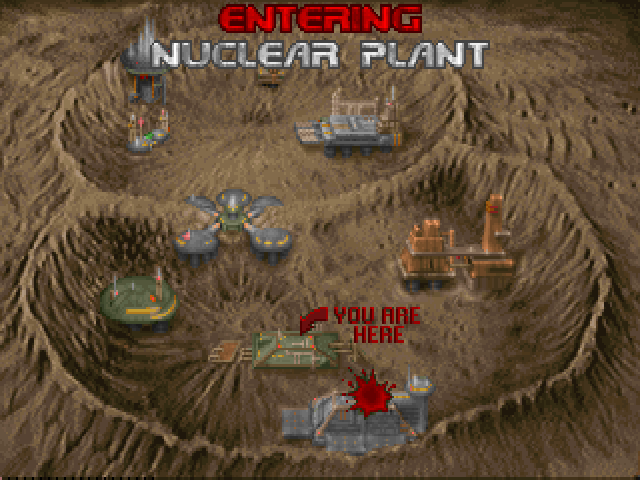
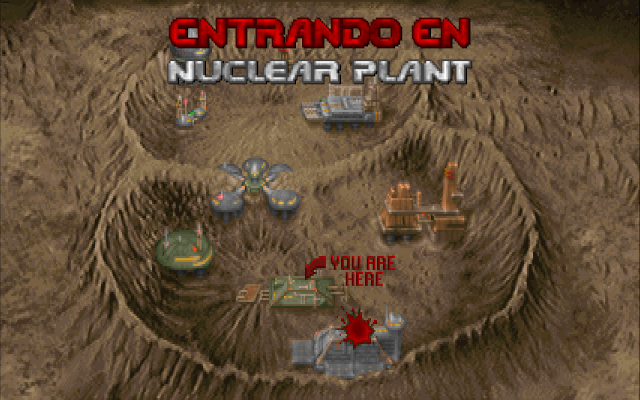
Cosas de intermissions, solo falta smelt y mejores cargas

diff --git a/DOOM/PauseMenu/PauseMenu.cpp b/DOOM/PauseMenu/PauseMenu.cpp
@@ -46,7 +46,13 @@ PauseMenu::PauseMenu(sf::RenderWindow* m_pRenderWindow) : m_pRenderWindow(m_pRen
         std::cout << "Error on load fondo hangar texture (Pausemenu.cpp)" << std::endl;
     }
     interNuclearSprite.setTexture(interNuclearTexture);
-    interNuclearSprite.scale(0.5f, 0.4166f);        //Regla de tres, 620x480 pasado a 320x200
+    interNuclearSprite.scale(0.5f, 0.5f);
+
+    if (!interToxicTexture.loadFromFile("../../../../assets/LoadingScreens/IntermissionNuclearPlant.png")) {
+        std::cout << "Error on load fondo hangar texture (Pausemenu.cpp)" << std::endl;
+    }
+    interToxicSprite.setTexture(interToxicTexture);
+    interToxicSprite.scale(0.5f, 0.5f);
 
 
 
@@ -58,6 +64,20 @@ PauseMenu::PauseMenu(sf::RenderWindow* m_pRenderWindow) : m_pRenderWindow(m_pRen
     HangarSprite.setTexture(Hangar);
     HangarSprite.scale(0.35f, 0.35f);
     HangarSprite.setPosition(SCREENWIDTH / 2 - Hangar.getSize().x * HangarSprite.getScale().x / 2, 8);
+
+    if (!Nuclear.loadFromFile("../../../../assets/LoadingScreens/Nuclear.png")) {
+        std::cout << "Error on load fondo Nuclear texture (Pausemenu.cpp)" << std::endl;
+    }
+    NuclearSprite.setTexture(Nuclear);
+    NuclearSprite.scale(0.35f, 0.35f);
+    NuclearSprite.setPosition(SCREENWIDTH / 2 - Nuclear.getSize().x * NuclearSprite.getScale().x / 2, 8);
+
+    if (!Toxic.loadFromFile("../../../../assets/LoadingScreens/Toxic.png")) {
+        std::cout << "Error on load fondo Toxic texture (Pausemenu.cpp)" << std::endl;
+    }
+    ToxicSprite.setTexture(Toxic);
+    ToxicSprite.scale(0.35f, 0.35f);
+    ToxicSprite.setPosition(SCREENWIDTH / 2 - Toxic.getSize().x * ToxicSprite.getScale().x / 2, 8);
 
     if (!finalizado.loadFromFile("../../../../assets/LoadingScreens/Finalizado.png")) {
         std::cout << "Error on load fondo hangar texture (Pausemenu.cpp)" << std::endl;
@@ -72,7 +92,6 @@ PauseMenu::PauseMenu(sf::RenderWindow* m_pRenderWindow) : m_pRenderWindow(m_pRen
     bajasSprite.setTexture(bajas);
     bajasSprite.scale(0.35f, 0.35f);
     bajasSprite.setPosition(SCREENWIDTH / 10 , finalizadoSprite.getPosition().y + finalizado.getSize().y * finalizadoSprite.getScale().y + 20);
-    std::cout << bajasSprite.getPosition().x << " " << bajasSprite.getPosition().y << std::endl;
 
     if (!porcentaje.loadFromFile("../../../../assets/LoadingScreens/porciento.png")) {
         std::cout << "Error on load % (Pausemenu.cpp)" << std::endl;
@@ -80,7 +99,14 @@ PauseMenu::PauseMenu(sf::RenderWindow* m_pRenderWindow) : m_pRenderWindow(m_pRen
     porcentajeSprite.setTexture(porcentaje);
     porcentajeSprite.scale(0.35f, 0.35f);
     porcentajeSprite.setPosition(SCREENWIDTH - SCREENWIDTH / 10, bajasSprite.getPosition().y);
-    std::cout << bajasSprite.getPosition().x << " " << bajasSprite.getPosition().y << std::endl;
+
+    if (!enhorabuena.loadFromFile("../../../../assets/LoadingScreens/Enhorabuena.png")) {
+        std::cout << "Error on load % (Pausemenu.cpp)" << std::endl;
+    }
+    enhorabuenaSprite.setTexture(enhorabuena);
+    enhorabuenaSprite.scale(0.35f, 0.35f);
+    enhorabuenaSprite.setPosition(SCREENWIDTH/2 - enhorabuena.getSize().x * enhorabuenaSprite.getScale().x/2, 20);
+
 
     if (!cargaCompletaTexture.loadFromFile("../../../../assets/LoadingScreens/CargaCompleta.png")) {
         std::cout << "Error on load fondo cargaCompleta (Pausemenu.cpp)" << std::endl;
@@ -108,6 +134,20 @@ PauseMenu::PauseMenu(sf::RenderWindow* m_pRenderWindow) : m_pRenderWindow(m_pRen
     for (int i = 0; i < 10; i++) {
         numerosSprite[i].scale(0.35f, 0.35f);
     }
+
+    if (!endTextTexture.loadFromFile("../../../../assets/LoadingScreens/EndScreen.png")) {
+        std::cout << "Error on load fondo Toxic texture (Pausemenu.cpp)" << std::endl;
+    }
+    endTextSprite.setTexture(endTextTexture);
+    endTextSprite.scale(0.3f, 0.3f);
+    endTextSprite.setPosition( SCREENWIDTH/2 - endTextTexture.getSize().x* endTextSprite.getScale().x/2, 70 );
+
+
+    if (!endBackgroundTexture.loadFromFile("../../../../assets/LoadingScreens/EndBackground.jpg")) {
+        std::cout << "Error on load fondo Toxic texture (Pausemenu.cpp)" << std::endl;
+    }
+    endBackgroundSprite.setTexture(endBackgroundTexture);
+    endBackgroundSprite.scale(0.4f, 0.4f);
 }
 
 PauseMenu::~PauseMenu()
@@ -189,4 +229,101 @@ void PauseMenu::RenderCarga1(int porcentaje) {
 }
 
 void PauseMenu::RenderCarga2(int porcentaje) {
+
+    sf::Event event;
+    bool skipIntro = false;
+    while (m_pRenderWindow->pollEvent(event) || !skipIntro) {
+        switch (event.type) {
+        case sf::Event::KeyPressed:
+            if (event.key.code == sf::Keyboard::Enter)
+            {
+                skipIntro = true;
+            }
+            break;
+
+        case sf::Event::Closed:
+            m_pRenderWindow->close();
+            break;
+
+        default:
+            break;
+
+        }
+        m_pRenderWindow->draw(fondoSprite);
+        m_pRenderWindow->draw(NuclearSprite);
+        m_pRenderWindow->draw(finalizadoSprite);
+        m_pRenderWindow->draw(bajasSprite);
+        m_pRenderWindow->draw(porcentajeSprite);
+        renderPorcentajeKills(porcentaje);
+        m_pRenderWindow->draw(cargaCompletaSprite);
+        m_pRenderWindow->display();
+    }
+
+    m_pRenderWindow->clear();
+
+    m_pRenderWindow->draw(interToxicSprite);
+    m_pRenderWindow->display();
+}
+
+
+void PauseMenu::RenderCarga3(int porcentaje) {
+
+    sf::Event event;
+    bool skipIntro = false;
+    while (m_pRenderWindow->pollEvent(event) || !skipIntro) {
+        switch (event.type) {
+        case sf::Event::KeyPressed:
+            if (event.key.code == sf::Keyboard::Enter)
+            {
+                skipIntro = true;
+            }
+            break;
+
+        case sf::Event::Closed:
+            m_pRenderWindow->close();
+            break;
+
+        default:
+            break;
+
+        }
+        m_pRenderWindow->draw(fondoSprite);
+        m_pRenderWindow->draw(ToxicSprite);
+        m_pRenderWindow->draw(finalizadoSprite);
+        m_pRenderWindow->draw(bajasSprite);
+        m_pRenderWindow->draw(porcentajeSprite);
+        renderPorcentajeKills(porcentaje);
+        m_pRenderWindow->draw(cargaCompletaSprite);
+        m_pRenderWindow->display();
+    }
+
+}
+
+
+void PauseMenu::RenderEnd() {
+    sf::Event event;
+    bool skipIntro = false;
+    while (m_pRenderWindow->pollEvent(event) || !skipIntro) {
+        switch (event.type) {
+        case sf::Event::KeyPressed:
+            if (event.key.code == sf::Keyboard::Enter)
+            {
+                skipIntro = true;
+            }
+            break;
+
+        case sf::Event::Closed:
+            m_pRenderWindow->close();
+            break;
+
+        default:
+            break;
+
+        }
+        m_pRenderWindow->clear(sf::Color::Black);
+        m_pRenderWindow->draw(endBackgroundSprite);
+        m_pRenderWindow->draw(endTextSprite);
+        m_pRenderWindow->draw(enhorabuenaSprite);
+        m_pRenderWindow->display();
+    }
 }

diff --git a/DOOM/PauseMenu/PauseMenu.h b/DOOM/PauseMenu/PauseMenu.h
@@ -19,6 +19,8 @@ public:
 	void RenderDeathMenu();
 	void RenderCarga1(int porcentaje);
 	void RenderCarga2(int porcentaje);
+	void RenderCarga3(int porcentaje);
+	void RenderEnd();
 
 	void renderPorcentajeKills(int porcentaje);
 
@@ -42,19 +44,28 @@ protected:
 
 	sf::Texture Hangar;
 	sf::Sprite HangarSprite;
-	//sf::Texture Hangar;
-	//sf::Sprite HangarSprite;
+	sf::Texture Nuclear;
+	sf::Sprite NuclearSprite;
+	sf::Texture Toxic;
+	sf::Sprite ToxicSprite;
 
 	sf::Texture cargaCompletaTexture;
 	sf::Sprite cargaCompletaSprite;
 
 	sf::Texture interNuclearTexture;
 	sf::Sprite interNuclearSprite;
-	//sf::Texture interNuclearTexture;
-	//sf::Sprite interNuclearTexture;
+	sf::Texture interToxicTexture;
+	sf::Sprite interToxicSprite;
 
 	sf::Texture numerosTexture;
 	sf::Sprite numerosSprite[10];
+
+	sf::Texture endTextTexture;
+	sf::Sprite endTextSprite;
+	sf::Texture endBackgroundTexture;
+	sf::Sprite endBackgroundSprite;
+	sf::Texture enhorabuena;
+	sf::Sprite enhorabuenaSprite;
 
     sf::RenderWindow* m_pRenderWindow;
 };

diff --git a/DOOM/MainMenu/menu.cpp b/DOOM/MainMenu/menu.cpp
@@ -352,7 +352,7 @@ void Menu::drawIntro(sf::RenderWindow* window) {
 	for (int i = 0; i < 100; i++) {
 
 		for (int i = 0; i < 300; i++) {
-			cortesIntro[i].move(0, 15 + (rand() % 25));		//Edita esto para cambiar lo que baja por render
+			cortesIntro[i].move(0, 3 + (rand() % 3));		//Edita esto para cambiar lo que baja por render
 		}
 
 		window->clear(sf::Color::Black);
@@ -362,7 +362,7 @@ void Menu::drawIntro(sf::RenderWindow* window) {
 		}
 		window->display();
 
-		std::this_thread::sleep_for(std::chrono::milliseconds(5));		//Edita esto para cambiar la velocidad de render
+		std::this_thread::sleep_for(std::chrono::milliseconds(8));		//Edita esto para cambiar la velocidad de render
 	}
 
 }

diff --git a/DOOM/Engine/DoomEngine.cpp b/DOOM/Engine/DoomEngine.cpp
@@ -290,6 +290,10 @@ bool DoomEngine::Update(Status status)
             actualLevel = 3;
             return true;
         }
+        if (actualLevel == 3 && vPlayer.x < 741 && vPlayer.x > 675 && vPlayer.y < -1697 && vPlayer.y > -1754) {
+            actualLevel = 3;
+            return true;
+        }
     }
     return false;
 }

diff --git a/DOOM/Game/Game.h b/DOOM/Game/Game.h
@@ -37,6 +37,7 @@ public:
 	int obtenerPorcentajeKills();
 	void loadLevel2();
 	void loadLevel3();
+	void loadEnd();
 	void loadEndGame();
 
 protected:
